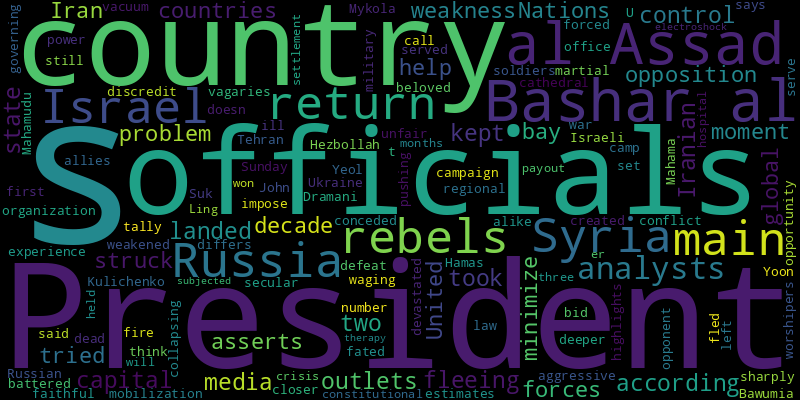
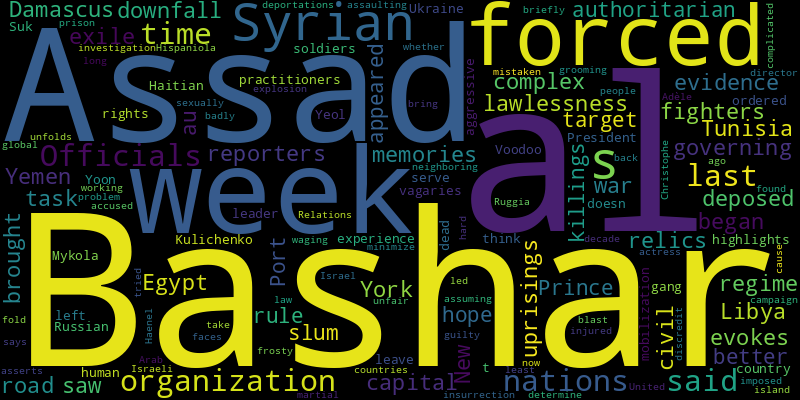
chore(bot): 🤖 auto commit

diff --git a/README.md b/README.md
@@ -2,41 +2,41 @@
 Auto RSS New York Times and Generate Word Cloud
 
 ## New York Times Global News
-* President Bashar al-Assad landed in Russia, according to state media outlets there and two Iranian officials, after fleeing the country as rebels took control of Syria’s capital.
-* President Bashar al-Assad had kept opposition forces at bay for a decade with help from Russia and Iran. But rebels struck at a moment of weakness for those countries.
-* While Israel asserts that the United Nations has tried to minimize the problem, the global organization says Israeli officials are waging an unfair campaign to discredit it.
+* The fighters who forced Bashar al-Assad into exile began the complex task of governing the Syrian capital. On the road to Damascus, New York Times reporters saw evidence of lawlessness and relics of the deposed regime.
+* Bashar al-Assad’s downfall evokes memories of uprisings in Egypt, Libya, Tunisia and Yemen, each of which brought civil war or authoritarian rule. Syrians hope for better.
+* The killings in a Port-au-Prince slum, which appeared to target practitioners of Voodoo, were ordered by a gang leader, a Haitian human rights organization said.
 * After being left for dead by Russian soldiers, Mykola Kulichenko doesn’t think he should be forced to serve. His experience highlights the vagaries of Ukraine’s aggressive mobilization.
-* Tehran’s main regional allies are weakened or collapsing: Syria’s president, Bashar al-Assad, has fled his country, Hezbollah is battered by conflict with Israel, and Hamas is still at war.
-* Sunday was the first opportunity for worshipers to return to the cathedral, beloved by the faithful and secular alike, since the 2019 fire that devastated it.
-* John Dramani Mahama, who served as president from 2012 to 2017, is set to return to office after his main opponent, Mahamudu Bawumia, conceded defeat.
-* The tally differs sharply from estimates by U.S. officials and military analysts, who have said the number is closer to 70,000.
-* President Yoon Suk Yeol’s ill-fated bid to impose martial law has created a power vacuum in his governing camp, pushing the country deeper into what analysts call a constitutional crisis.
-* Ling’er won a settlement payout from the hospital where she was held for three months against her will and subjected to electroshock therapy.
+* President Yoon Suk Yeol cannot leave the country as an investigation unfolds into whether he led an insurrection last week when he briefly imposed martial law.
+* Relations between the neighboring countries on the island of Hispaniola have long been frosty. They are now complicated by up to 10,000 deportations a week.
+* Only weeks ago, Arab nations had been working hard to bring Bashar al-Assad back into the fold, assuming he was there to last. They were badly mistaken.
+* The actress Adèle Haenel has accused the director Christophe Ruggia of grooming and sexually assaulting her when she was 12. If found guilty, he faces up to a decade in prison.
+* Officials said it would take time to determine the cause of the explosion. At least 26 people were injured in the blast.
+* While Israel asserts that the United Nations has tried to minimize the problem, the global organization says Israeli officials are waging an unfair campaign to discredit it.
 
 ![Global](./global.png)
 ## New York Times United States News
-* Linda McMahon is accused of failing to stop abuse in the 1980s within W.W.E., which she led at the time. The suit is on hold pending a ruling over a state law related to such cases.
-* A confidential Navy program is studying whether intense fighter jet operations can cause devastating brain injuries in flight crews.
-* The Ohio city’s mayor and the family of the 15-year-old, Jazmir Tucker, raised concerns about how officers handled the incident.
-* The desks came out of a dumpster, and the computers are hand-me-downs. But students say Abundance Academy is a haven from bullying and crowded classes.
-* In 1925, Congress let the justices choose the cases they would decide. That change “continues to prompt political contention and crisis,” a scholar argues.
-* Christopher Landau is a longtime lawyer and the son of a veteran U.S. diplomat who served as ambassador to three nations in Latin America.
-* Liz Cheney, the former Republican representative, said President-elect Donald J. Trump “lied about” the bipartisan House committee that investigated his role in the Jan. 6, 2021, attack.
-* The overthrow of the Assad government could mean Russia’s bases in Syria are closed and Iran’s pathway to Hezbollah is cut off. Now Iran, newly vulnerable, will have to decide between negotiation and the bomb.
-* President Biden faces the challenge of deciding how to engage the main armed group that toppled President Bashar al-Assad, even though it remains designated a terrorist organization by the United States.
-* The president-elect has promoted the theory for more than a decade and said on Sunday that he was “open to anything” to address a nationwide rise in autism.
+* The suspect, Luigi Mangione, was an Ivy League tech graduate from a prominent Maryland family who in recent months had suffered physical and psychological pain.
+* Preliminary estimates showed that the quake had a magnitude of 5.8, according to the U.S. Geological Survey.
+* A growing number of Chinese Americans, especially naturalized immigrants, say Democrats have become too lenient on crime and homelessness.
+* One of the closest state elections in North Carolina history now hinges on the latest power struggle between state Republicans and Democrats — and a voter form dating back 20 years.
+* The president-elect has made some of the most expansive campaign pledges in history. Some supporters fear that his bravado could undermine his ambitions.
+* When Donald J. Trump said Robert F. Kennedy Jr. could “go wild” on health, he might not have expected his pick for health secretary doing battle against the president-elect’s own voters.
+* Republican control of Washington and a tax bill next year have corporate America excited — and on edge.
+* The Franklin fire started Monday night and began to spread quickly, as large parts of Southern California braced for dangerous wildfire conditions.
+* Harmeet K. Dhillon has been a conservative activist so devoted to the president-elect that she was willing to attack not only Democrats but also fellow Republicans.
+* Samuel R. Bateman, 48, of Colorado City, Ariz., who claimed to have more than 20 “wives” including 10 “brides” under 18, pleaded guilty in April to two felony conspiracy charges.
 
 ![US](./usnews.png)
 ## New York Times Asia News
+* Lee Jae-myung, the main opposition leader, is leading efforts to impeach President Yoon Suk Yeol over his declaration of martial law. He could also be the next president.
+* This former Soviet Republic has been rocked by anti-government demonstrations over the same issues that hurtled Ukraine into war — its relationship with Europe and Russia.
+* President Luiz Inácio Lula da Silva of Brazil was in the hospital recovering from the procedure. Doctors said the bleeding appeared to be linked to a fall in October.
+* Taiwan is on high alert in response to China’s unannounced deployment of naval and Coast Guard ships, as tensions rise over U.S. support for the island.
+* In return for financial support, the Pacific island nation of Nauru pledged not to enter any security pacts without Australia’s assent.
+* Nearly 90,000 people on the island of Negros were ordered to seek shelter after Mount Kanlaon spewed deadly ash and lava.
+* Plus, a lawsuit for trans rights in China.
+* Beijing ordered companies around the world not to allow critical minerals mined in China to reach the U.S., while deepening its efforts to replace imports with domestic products.
+* The move by Chinese regulators came a week after the Biden administration expanded curbs on the sale of advanced U.S. technology to China.
 * President Yoon Suk Yeol cannot leave the country as an investigation unfolds into whether he led an insurrection last week when he briefly imposed martial law.
-* The Trump Organization finds a warm welcome in India, where status-hungry home buyers clamor for a famous American brand.
-* Plus, Notre-Dame reopens.
-* One of the most successful writers in the Chinese-speaking world, she filled her plots with twists and turns, but love always transcended all.
-* President Yoon Suk Yeol’s ill-fated bid to impose martial law has created a power vacuum in his governing camp, pushing the country deeper into what analysts call a constitutional crisis.
-* The department has confronted the challenge of China by restricting key exports, a policy that is likely to continue in the Trump administration.
-* Ling’er won a settlement payout from the hospital where she was held for three months against her will and subjected to electroshock therapy.
-* Prosecutors are investigating whether President Yoon Suk Yeol and his followers committed insurrection when they briefly put South Korea under martial law.
-* A top-selling pop singer as a teenager in the 1980s, she also had an award-winning career as a dramatic actress.
-* The country was thrown into deeper uncertainty after the governing party changed its stance and refused to oust him. Protesters vowed to keep the pressure on.
 
 ![Asian](./asian.png)

diff --git a/archive/2024-12-09.md b/archive/2024-12-09.md
@@ -1,0 +1,42 @@
+# NewsArchive
+Auto RSS New York Times and Generate Word Cloud
+
+## New York Times Global News
+* President Bashar al-Assad landed in Russia, according to state media outlets there and two Iranian officials, after fleeing the country as rebels took control of Syria’s capital.
+* President Bashar al-Assad had kept opposition forces at bay for a decade with help from Russia and Iran. But rebels struck at a moment of weakness for those countries.
+* While Israel asserts that the United Nations has tried to minimize the problem, the global organization says Israeli officials are waging an unfair campaign to discredit it.
+* After being left for dead by Russian soldiers, Mykola Kulichenko doesn’t think he should be forced to serve. His experience highlights the vagaries of Ukraine’s aggressive mobilization.
+* Tehran’s main regional allies are weakened or collapsing: Syria’s president, Bashar al-Assad, has fled his country, Hezbollah is battered by conflict with Israel, and Hamas is still at war.
+* Sunday was the first opportunity for worshipers to return to the cathedral, beloved by the faithful and secular alike, since the 2019 fire that devastated it.
+* John Dramani Mahama, who served as president from 2012 to 2017, is set to return to office after his main opponent, Mahamudu Bawumia, conceded defeat.
+* The tally differs sharply from estimates by U.S. officials and military analysts, who have said the number is closer to 70,000.
+* President Yoon Suk Yeol’s ill-fated bid to impose martial law has created a power vacuum in his governing camp, pushing the country deeper into what analysts call a constitutional crisis.
+* Ling’er won a settlement payout from the hospital where she was held for three months against her will and subjected to electroshock therapy.
+
+![Global](./global.png)
+## New York Times United States News
+* Linda McMahon is accused of failing to stop abuse in the 1980s within W.W.E., which she led at the time. The suit is on hold pending a ruling over a state law related to such cases.
+* A confidential Navy program is studying whether intense fighter jet operations can cause devastating brain injuries in flight crews.
+* The Ohio city’s mayor and the family of the 15-year-old, Jazmir Tucker, raised concerns about how officers handled the incident.
+* The desks came out of a dumpster, and the computers are hand-me-downs. But students say Abundance Academy is a haven from bullying and crowded classes.
+* In 1925, Congress let the justices choose the cases they would decide. That change “continues to prompt political contention and crisis,” a scholar argues.
+* Christopher Landau is a longtime lawyer and the son of a veteran U.S. diplomat who served as ambassador to three nations in Latin America.
+* Liz Cheney, the former Republican representative, said President-elect Donald J. Trump “lied about” the bipartisan House committee that investigated his role in the Jan. 6, 2021, attack.
+* The overthrow of the Assad government could mean Russia’s bases in Syria are closed and Iran’s pathway to Hezbollah is cut off. Now Iran, newly vulnerable, will have to decide between negotiation and the bomb.
+* President Biden faces the challenge of deciding how to engage the main armed group that toppled President Bashar al-Assad, even though it remains designated a terrorist organization by the United States.
+* The president-elect has promoted the theory for more than a decade and said on Sunday that he was “open to anything” to address a nationwide rise in autism.
+
+![US](./usnews.png)
+## New York Times Asia News
+* President Yoon Suk Yeol cannot leave the country as an investigation unfolds into whether he led an insurrection last week when he briefly imposed martial law.
+* The Trump Organization finds a warm welcome in India, where status-hungry home buyers clamor for a famous American brand.
+* Plus, Notre-Dame reopens.
+* One of the most successful writers in the Chinese-speaking world, she filled her plots with twists and turns, but love always transcended all.
+* President Yoon Suk Yeol’s ill-fated bid to impose martial law has created a power vacuum in his governing camp, pushing the country deeper into what analysts call a constitutional crisis.
+* The department has confronted the challenge of China by restricting key exports, a policy that is likely to continue in the Trump administration.
+* Ling’er won a settlement payout from the hospital where she was held for three months against her will and subjected to electroshock therapy.
+* Prosecutors are investigating whether President Yoon Suk Yeol and his followers committed insurrection when they briefly put South Korea under martial law.
+* A top-selling pop singer as a teenager in the 1980s, she also had an award-winning career as a dramatic actress.
+* The country was thrown into deeper uncertainty after the governing party changed its stance and refused to oust him. Protesters vowed to keep the pressure on.
+
+![Asian](./asian.png)
